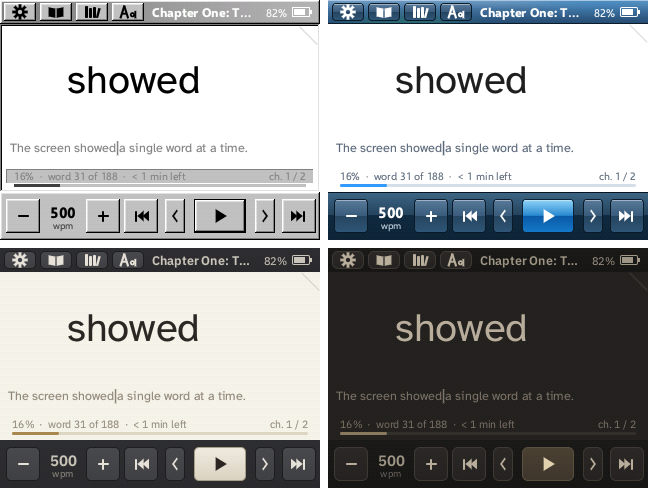
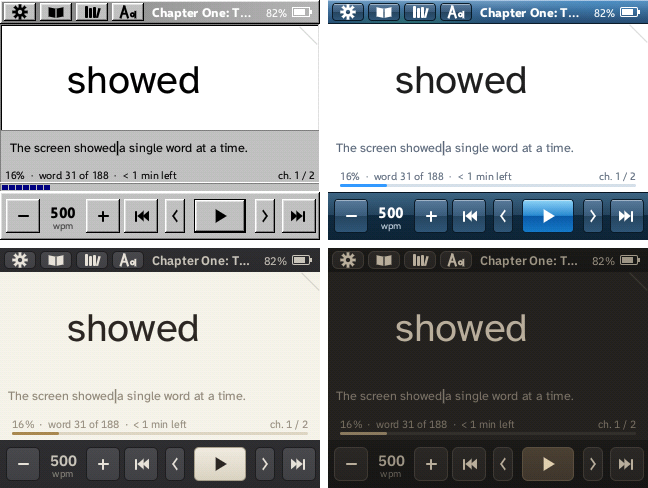
README: Sonnet 18 GIF and theme screenshot with blue 98 blocks; reader-sim record
- reader-sim record <book> <dir> [--theme N] [--wpm N] [--blue]: every frame
  with its duration, for GIFs at the real reading rhythm
- docs/sonnet-18.gif: Shakespeare's Sonnet 18 (public domain) at 300 wpm,
  Windows 98 with blue blocks, 165 KB
- docs/themes.png: the four themes paused, Windows 98 with blue blocks

Changed region(s): [[0.0, 0.2459, 0.4938, 0.3996]]

diff --git a/crates/reader-sim/src/walkthrough.rs b/crates/reader-sim/src/walkthrough.rs
@@ -377,7 +377,9 @@ pub fn run(dir: &Path, (w, h): (u32, u32)) {
     // 2. The same key screens in every theme.
     for theme in 0..CATALOG.themes.len() as u8 {
         let slug = CATALOG.themes[theme as usize].to_lowercase().replace(' ', "-");
-        let mut r = Run { app: new_app(&text, Settings { theme, ..Settings::default() }), ui: Ui::new(w, h), cv: Canvas::new(w, h), now: 0, n: 0, dir, prefix: format!("{slug}-") };
+        // Windows 98 shown with its classic blue progress blocks.
+        let blue_blocks = CATALOG.themes[theme as usize] == "Windows 98";
+        let mut r = Run { app: new_app(&text, Settings { theme, blue_blocks, ..Settings::default() }), ui: Ui::new(w, h), cv: Canvas::new(w, h), now: 0, n: 0, dir, prefix: format!("{slug}-") };
         r.app.reader.seek(30, 0);
         r.shot("paused");
         r.app.tap(reader_core::app::Hit::Bookmark, r.now);
@@ -405,4 +407,51 @@ pub fn run(dir: &Path, (w, h): (u32, u32)) {
         r.shot("phrases");
     }
     println!("wrote walkthrough to {}", dir.display());
+}
+
+/// Records a reading session frame by frame, for docs/: every frame that
+/// changes the screen is saved as a PNG, and `frames.txt` lists each with how
+/// long it stayed (ms), so a GIF can keep the real rhythm.
+pub fn record(book: &Path, dir: &Path, (w, h): (u32, u32), settings: Settings) {
+    std::fs::create_dir_all(dir).unwrap();
+    let text = std::fs::read_to_string(book).expect("book");
+    let mut app = App::new(Book::parse(&text, "book"), CATALOG, settings);
+    app.battery = Some(Battery { percent: 82, charging: false, millivolts: 4010 });
+    let mut ui = Ui::new(w, h);
+    let mut cv = Canvas::new(w, h);
+    let mut frames: Vec<(String, u64)> = Vec::new();
+    let save = |cv: &Canvas, now: u64, frames: &mut Vec<(String, u64)>| {
+        if let Some(last) = frames.last_mut() {
+            last.1 = now - last.1; // becomes the duration of the previous frame
+        }
+        let name = format!("f{:04}.png", frames.len());
+        write_png(&dir.join(&name), cv);
+        frames.push((name, now));
+    };
+    // Paused on the title for a moment, then read to the end.
+    ui.paint(&mut app, 0, &mut cv);
+    save(&cv, 0, &mut frames);
+    let mut now = 1_200;
+    app.handle(reader_core::Key::Select, now);
+    while app.reader.is_playing() && now < 120_000 {
+        app.tick(now);
+        if !ui.paint(&mut app, now, &mut cv).is_empty() {
+            save(&cv, now, &mut frames);
+        }
+        now += 10;
+    }
+    // The end, paused: the sentence pane and the full progress bar.
+    for _ in 0..300 {
+        app.tick(now);
+        if !ui.paint(&mut app, now, &mut cv).is_empty() {
+            save(&cv, now, &mut frames);
+        }
+        now += 10;
+    }
+    if let Some(last) = frames.last_mut() {
+        last.1 = 2_500;
+    }
+    let list: Vec<String> = frames.iter().map(|(n, d)| format!("{n} {d}")).collect();
+    std::fs::write(dir.join("frames.txt"), list.join("\n")).unwrap();
+    println!("recorded {} frames to {}", frames.len(), dir.display());
 }

diff --git a/crates/reader-sim/src/main.rs b/crates/reader-sim/src/main.rs
@@ -37,6 +37,21 @@ fn main() {
         .filter(|(i, a)| !a.starts_with("--") && (*i == 0 || !args[i - 1].starts_with("--")))
         .map(|(_, a)| a)
         .collect();
+    if positional.first().map(|s| s.as_str()) == Some("record") {
+        // record <book> <dir> [--theme N] [--wpm N]: frames for a GIF.
+        let book = PathBuf::from(positional.get(1).expect("record <book> <dir>").as_str());
+        let dir = PathBuf::from(positional.get(2).expect("record <book> <dir>").as_str());
+        let mut s = Settings::default();
+        if let Some(t) = arg(&args, "--theme").and_then(|v| v.parse().ok()) {
+            s.theme = t;
+        }
+        if let Some(w) = arg(&args, "--wpm").and_then(|v| v.parse().ok()) {
+            s.wpm = w;
+        }
+        s.blue_blocks = args.iter().any(|a| a == "--blue");
+        walkthrough::record(&book, &dir, size, s);
+        return;
+    }
     if positional.first().map(|s| s.as_str()) == Some("walkthrough") {
         let dir = positional.get(1).map(PathBuf::from).unwrap_or_else(|| "walkthrough".into());
         walkthrough::run(&dir, size);

diff --git a/README.md b/README.md
@@ -6,6 +6,10 @@ phone page to read along, change settings and add books over Wi-Fi.
 
 ![The four themes](docs/themes.png)
 
+![Sonnet 18, word by word, in the Windows 98 theme](docs/sonnet-18.gif)
+
+*Shakespeare's Sonnet 18 at 300 words a minute, Windows 98 theme, recorded from the simulator (`reader-sim record`).*
+
 - **Four ways to read:** word by word, phrases (up to 3 words, ending at sentences), a typewriter ticker, and normal pages.
 - **Placed by the book, not the screen:** words centred or on a fixed recognition point (Spritz rule, long words split at a syllable); bold, italic and chapter titles kept; brackets read as asides.
 - **Real books:** EPUB, PDF (scanned ones too), Markdown; pictures with their captions, shown for a set time; bookmarks as a folded page corner.

diff --git a/books/sonnet-18.md b/books/sonnet-18.md
@@ -1,0 +1,21 @@
+<!-- title: Sonnet 18 -->
+# Sonnet 18
+
+{verse}
+Shall I compare thee to a summer's day?
+Thou art more lovely and more temperate:
+Rough winds do shake the darling buds of May,
+And summer's lease hath all too short a date;
+Sometime too hot the eye of heaven shines,
+And often is his gold complexion dimm'd;
+And every fair from fair sometime declines,
+By chance or nature's changing course untrimm'd;
+But thy eternal summer shall not fade,
+Nor lose possession of that fair thou ow'st;
+Nor shall death brag thou wander'st in his shade,
+When in eternal lines to time thou grow'st:
+So long as men can breathe or eyes can see,
+So long lives this, and this gives life to thee.
+{/verse}
+
+William Shakespeare, 1609.
